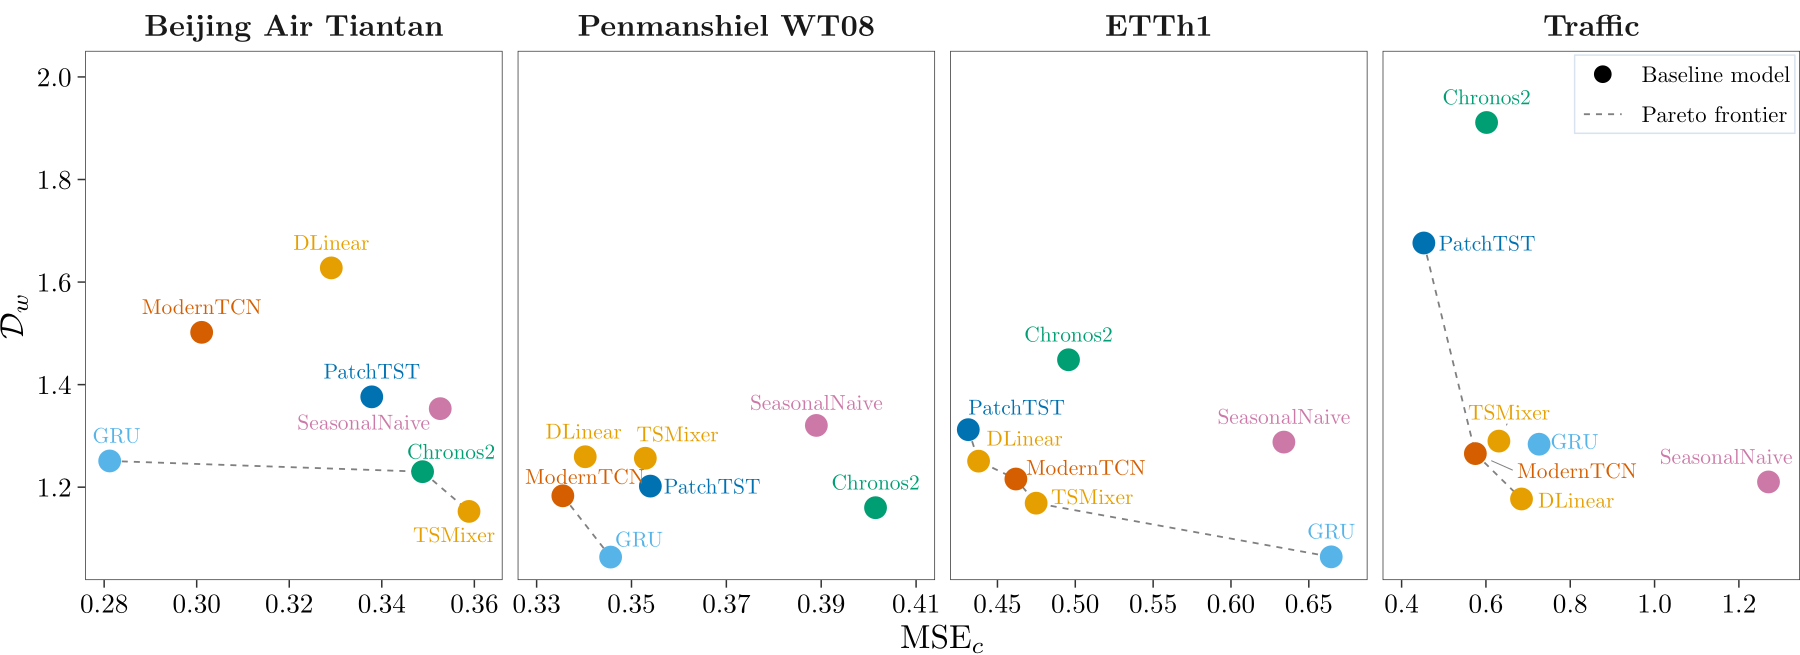
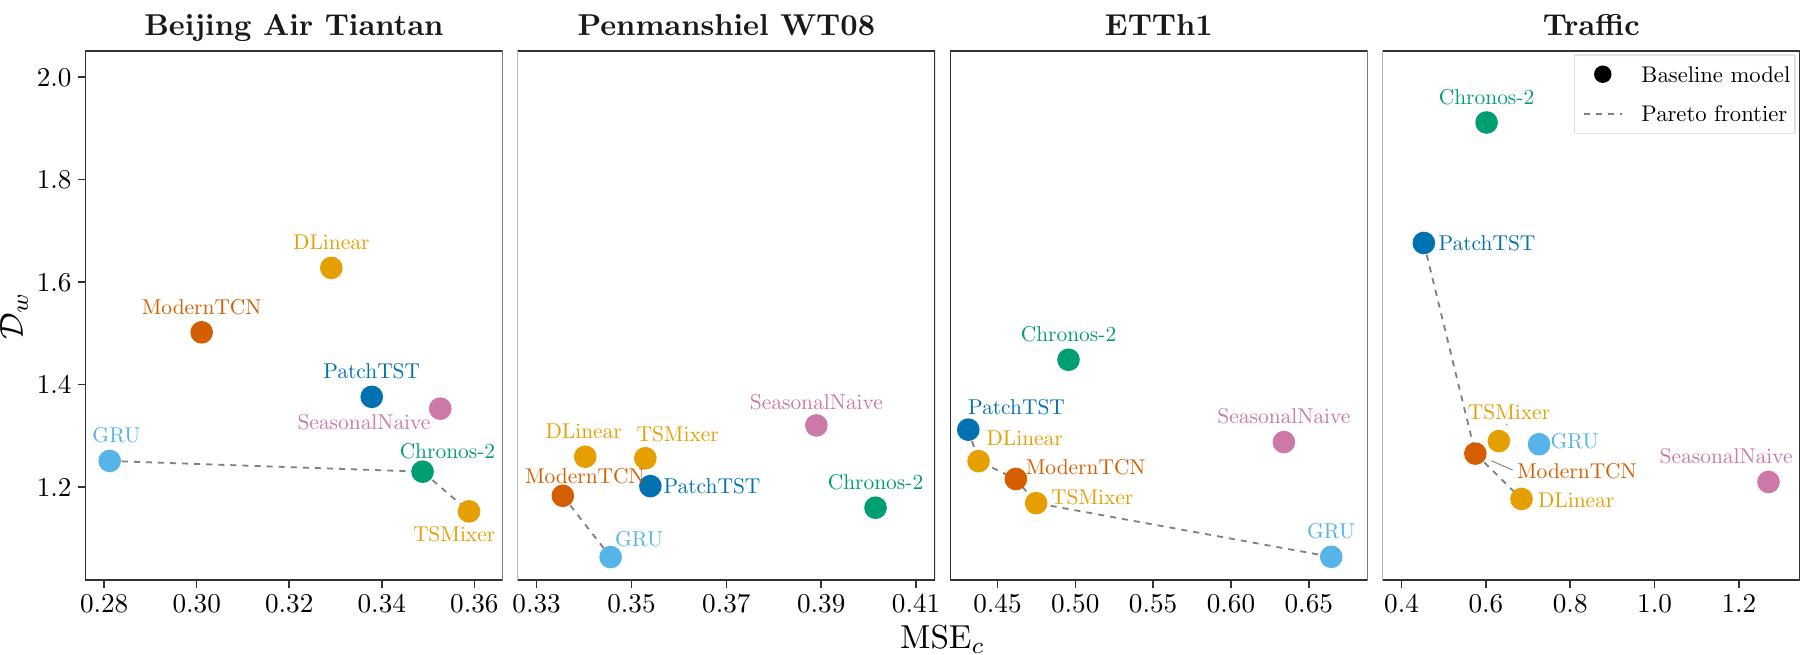
Sync the README with the camera-ready paper (#6)
The README cited Table 22 for the default configuration and Tables 25
and 26 for the bootstrap intervals. In the camera-ready paper these are
Table 21 and Tables 24 and 25. The README image of Figure 5 is
rasterized again from the current figure, which labels Chronos-2 as the
paper does.

diff --git a/README.md b/README.md
@@ -303,7 +303,7 @@ The paper corresponds to release
 of this repository. [`paper_artifact/README.md`](paper_artifact/README.md) maps
 each section of the paper to its bundled results, the commands that reproduce
 them, and the compute accounting of its experiments. The default configuration,
-which Table 22 of the paper specifies, runs with:
+which Table 21 of the paper specifies, runs with:
 
 ```bash
 uv run python run_training.py
@@ -340,7 +340,7 @@ The baseline forecasting models were selected on clean validation data with
 training and search seed 42 and evaluated on 10,000 sampled test windows per
 dataset. Lower is better for every quantity. Table 4 of the
 [paper](https://neurips.cc/virtual/2026/loc/paris/poster/138912) reports these
-results together with the method deltas below. Its Appendix Tables 25 and 26
+results together with the method deltas below. Its Appendix Tables 24 and 25
 add 95% percentile bootstrap intervals for the two leading architectures of
 each quantity and for the method deltas.
 
